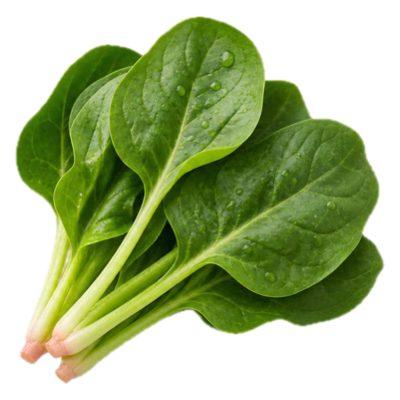
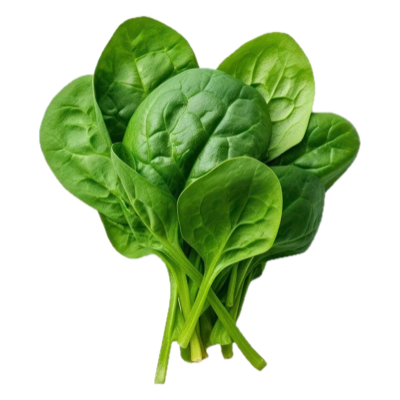
시금치 아이콘 바꿈

diff --git a/sw.js b/sw.js
@@ -1,5 +1,5 @@
 // 블루베리 — 오프라인 캐싱용 서비스워커
-const CACHE_NAME = "blueberry-v46";
+const CACHE_NAME = "blueberry-v47";
 const ASSETS = [
   "./",
   "./index.html",
